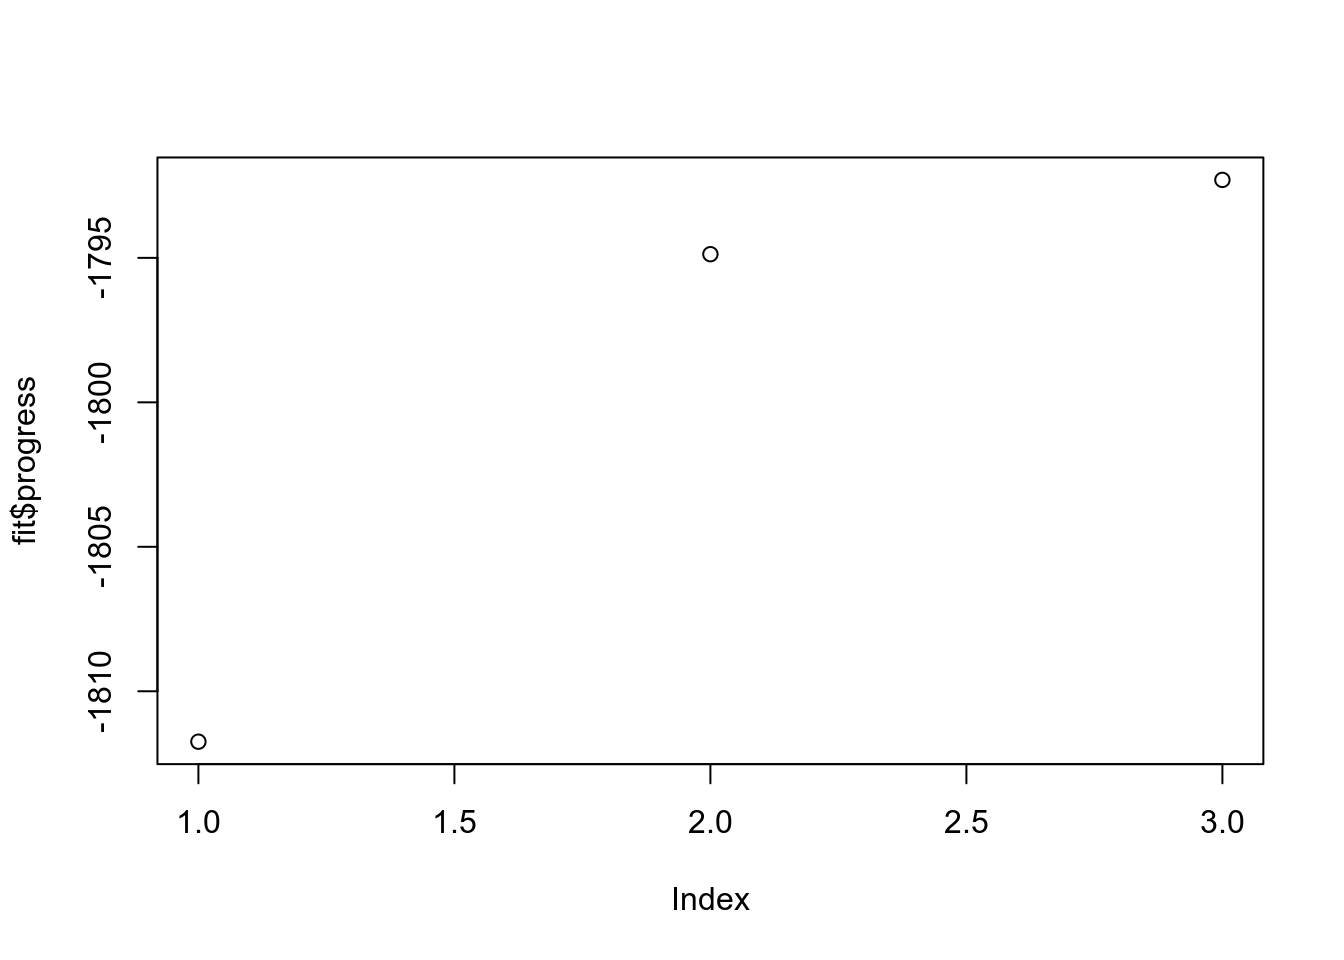
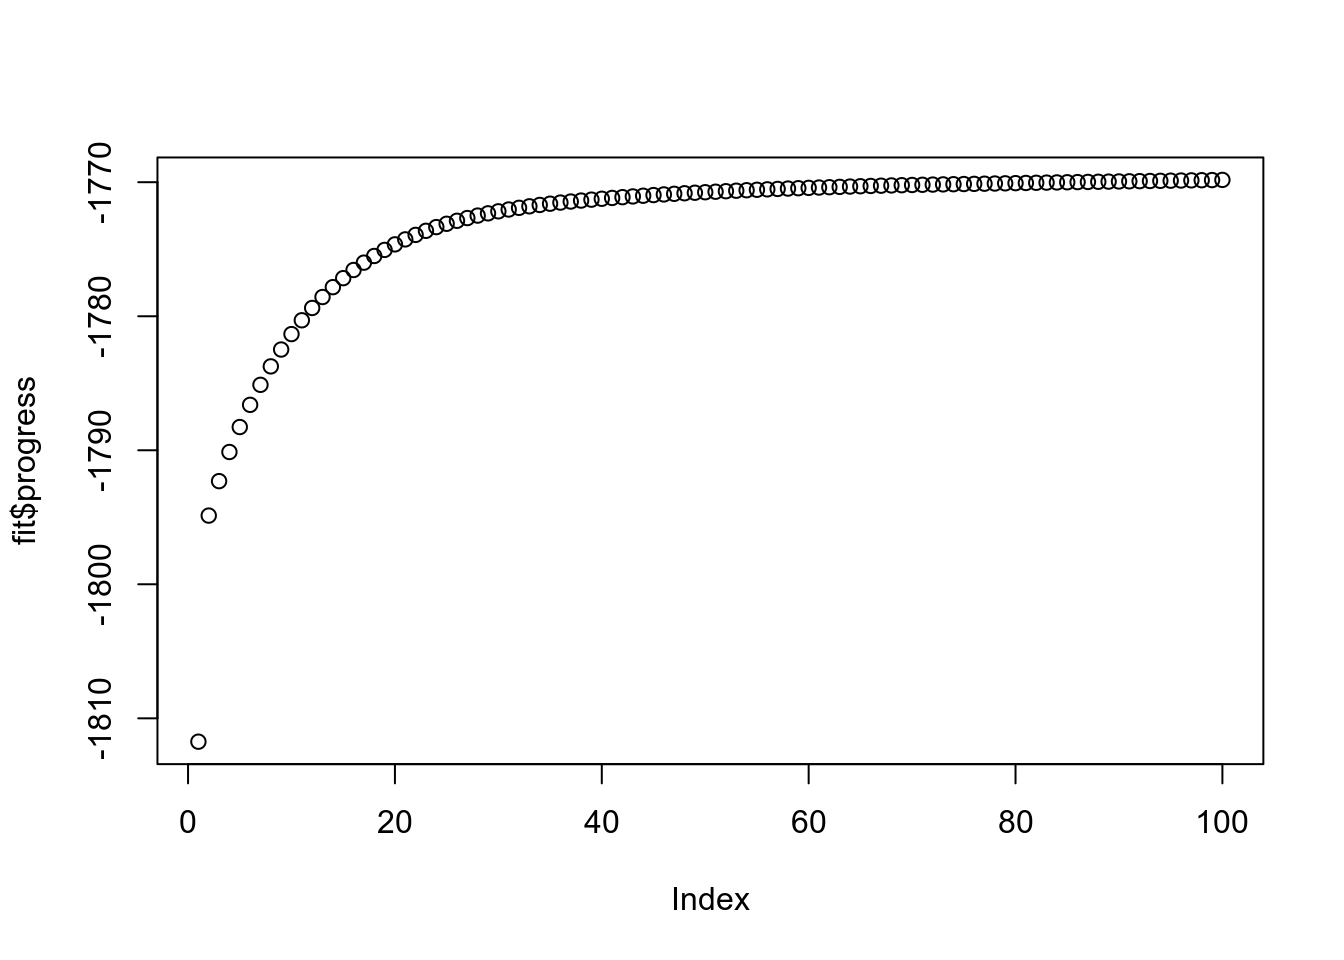
Build site.

diff --git a/docs/experiment_ebpm_bg_kos.html b/docs/experiment_ebpm_bg_kos.html
@@ -394,7 +394,7 @@ div.section {
 
 <p>
 <button type="button" class="btn btn-default btn-workflowr btn-workflowr-report" data-toggle="collapse" data-target="#workflowr-report">
-<span class="glyphicon glyphicon-list" aria-hidden="true"></span> workflowr <span class="glyphicon glyphicon-ok text-success" aria-hidden="true"></span>
+<span class="glyphicon glyphicon-list" aria-hidden="true"></span> workflowr <span class="glyphicon glyphicon-exclamation-sign text-danger" aria-hidden="true"></span>
 </button>
 </p>
 <div id="workflowr-report" class="collapse">
@@ -403,7 +403,7 @@ div.section {
 <a data-toggle="tab" href="#summary">Summary</a>
 </li>
 <li>
-<a data-toggle="tab" href="#checks"> Checks <span class="glyphicon glyphicon-ok text-success" aria-hidden="true"></span> </a>
+<a data-toggle="tab" href="#checks"> Checks <span class="glyphicon glyphicon-exclamation-sign text-danger" aria-hidden="true"></span> </a>
 </li>
 <li>
 <a data-toggle="tab" href="#versions">Past versions</a>
@@ -415,7 +415,7 @@ div.section {
 <strong>Last updated:</strong> 2020-04-30
 </p>
 <p>
-<strong>Checks:</strong> <span class="glyphicon glyphicon-ok text-success" aria-hidden="true"></span> 7 <span class="glyphicon glyphicon-exclamation-sign text-danger" aria-hidden="true"></span> 0
+<strong>Checks:</strong> <span class="glyphicon glyphicon-ok text-success" aria-hidden="true"></span> 6 <span class="glyphicon glyphicon-exclamation-sign text-danger" aria-hidden="true"></span> 1
 </p>
 <p>
 <strong>Knit directory:</strong> <code>ebpmf_demo/</code> <span class="glyphicon glyphicon-question-sign" aria-hidden="true" title="This is the local directory in which the code in this file was executed."> </span>
@@ -479,12 +479,18 @@ This reproducible <a href="http://rmarkdown.rstudio.com">R Markdown</a> analysis
 <div class="panel panel-default">
 <div class="panel-heading">
 <p class="panel-title">
-<a data-toggle="collapse" data-parent="#workflowr-checks" href="#strongCachestrongnone"> <span class="glyphicon glyphicon-ok text-success" aria-hidden="true"></span> <strong>Cache:</strong> none </a>
+<a data-toggle="collapse" data-parent="#workflowr-checks" href="#strongCachestrongdetected"> <span class="glyphicon glyphicon-exclamation-sign text-danger" aria-hidden="true"></span> <strong>Cache:</strong> detected </a>
 </p>
 </div>
-<div id="strongCachestrongnone" class="panel-collapse collapse">
+<div id="strongCachestrongdetected" class="panel-collapse collapse">
 <div class="panel-body">
-<p>Nice! There were no cached chunks for this analysis, so you can be confident that you successfully produced the results during this run.</p>
+The following chunks had caches available:
+<ul>
+<li>
+unnamed-chunk-3
+</li>
+</ul>
+<p>To ensure reproducibility of the results, delete the cache directory <code>experiment_ebpm_bg_kos_cache</code> and re-run the analysis. To have workflowr automatically delete the cache directory prior to building the file, set <code>delete_cache = TRUE</code> when running <code>wflow_build()</code> or <code>wflow_publish()</code>.</p>
 </div>
 </div>
 </div>
@@ -503,10 +509,10 @@ This reproducible <a href="http://rmarkdown.rstudio.com">R Markdown</a> analysis
 <div class="panel panel-default">
 <div class="panel-heading">
 <p class="panel-title">
-<a data-toggle="collapse" data-parent="#workflowr-checks" href="#strongRepositoryversionstrongahrefhttpsgithubcomzihao12ebpmfdemotree1460e22eb4d44f5a5957e62981c9a2566421488dtargetblank1460e22a"> <span class="glyphicon glyphicon-ok text-success" aria-hidden="true"></span> <strong>Repository version:</strong> <a href="https://github.com/zihao12/ebpmf_demo/tree/1460e22eb4d44f5a5957e62981c9a2566421488d" target="_blank">1460e22</a> </a>
+<a data-toggle="collapse" data-parent="#workflowr-checks" href="#strongRepositoryversionstrongahrefhttpsgithubcomzihao12ebpmfdemotreedf9d426db1ca6f6e6383d9f5c840befe9b7e4a0btargetblankdf9d426a"> <span class="glyphicon glyphicon-ok text-success" aria-hidden="true"></span> <strong>Repository version:</strong> <a href="https://github.com/zihao12/ebpmf_demo/tree/df9d426db1ca6f6e6383d9f5c840befe9b7e4a0b" target="_blank">df9d426</a> </a>
 </p>
 </div>
[2 lines of base64/hex data omitted]
 <div class="panel-body">
 <p>
 Great! You are using Git for version control. Tracking code development and connecting the code version to the results is critical for reproducibility. The version displayed above was the version of the Git repository at the time these results were generated. <br><br> Note that you need to be careful to ensure that all relevant files for the analysis have been committed to Git prior to generating the results (you can use <code>wflow_publish</code> or <code>wflow_git_commit</code>). workflowr only checks the R Markdown file, but you know if there are other scripts or data files that it depends on. Below is the status of the Git repository when the results were generated:
@@ -521,6 +527,7 @@ Untracked files:
     Untracked:  analysis/current_progress_ebpmf_comparison_cache/
     Untracked:  analysis/demo_sparse_ebpmf_two_gamma_cache/
     Untracked:  analysis/ebpm_two_gamma_speed.Rmd
+    Untracked:  analysis/experiment_ebpm_bg_kos_cache/
     Untracked:  analysis/experiment_ebpm_gammamix3_cache/
     Untracked:  analysis/experiment_nb_means_cache_0/
     Untracked:  analysis/fast_mle_nb.Rmd
@@ -591,6 +598,40 @@ Message
 </tr>
 </thead>
 <tbody>
+<tr>
+<td>
+Rmd
+</td>
+<td>
+<a href="https://github.com/zihao12/ebpmf_demo/blob/df9d426db1ca6f6e6383d9f5c840befe9b7e4a0b/analysis/experiment_ebpm_bg_kos.Rmd" target="_blank">df9d426</a>
+</td>
+<td>
+zihao12
+</td>
+<td>
+2020-04-30
+</td>
+<td>
+kos update
+</td>
+</tr>
+<tr>
+<td>
+html
+</td>
+<td>
+<a href="https://rawcdn.githack.com/zihao12/ebpmf_demo/8b7b17bae238f8a1755f6ad958d6a4bb1541e33c/docs/experiment_ebpm_bg_kos.html" target="_blank">8b7b17b</a>
+</td>
+<td>
+zihao12
+</td>
+<td>
+2020-04-30
+</td>
+<td>
+Build site.
+</td>
+</tr>
 <tr>
 <td>
 Rmd
@@ -688,7 +729,44 @@ I construct a poisson means sub-problem this way
 Y = readRDS(&quot;data/kos.z.Rds&quot;)
 hist(log10(Y + 1), breaks = 100)</code></pre>
 <p><img src="figure/experiment_ebpm_bg_kos.Rmd/unnamed-chunk-2-1.png" width="672" style="display: block; margin: auto;" /></p>
-<pre class="r"><code>maxiter = 3
+<p>
+<button type="button" class="btn btn-default btn-xs btn-workflowr btn-workflowr-fig" data-toggle="collapse" data-target="#fig-unnamed-chunk-2-1">
+Past versions of unnamed-chunk-2-1.png
+</button>
+</p>
+<div id="fig-unnamed-chunk-2-1" class="collapse">
+<div class="table-responsive">
+<table class="table table-condensed table-hover">
+<thead>
+<tr>
+<th>
+Version
+</th>
+<th>
+Author
+</th>
+<th>
+Date
+</th>
+</tr>
+</thead>
+<tbody>
+<tr>
+<td>
+<a href="https://github.com/zihao12/ebpmf_demo/blob/8b7b17bae238f8a1755f6ad958d6a4bb1541e33c/docs/figure/experiment_ebpm_bg_kos.Rmd/unnamed-chunk-2-1.png" target="_blank">8b7b17b</a>
+</td>
+<td>
+zihao12
+</td>
+<td>
+2020-04-30
+</td>
+</tr>
+</tbody>
+</table>
+</div>
+</div>
+<pre class="r"><code>maxiter = 100
 a_L = c(seq(0.01, 0.10, 0.01), seq(0.2, 0.9, 0.1), seq(1,15,2), 20, 50, 75, 100, 200, 1e3)
 grids= list(al = a_L, bl = a_L)
 
@@ -699,6 +777,43 @@ runtime &lt;- system.time(
 )</code></pre>
 <pre class="r"><code>plot(fit$progress)</code></pre>
 <p><img src="figure/experiment_ebpm_bg_kos.Rmd/unnamed-chunk-4-1.png" width="672" style="display: block; margin: auto;" /></p>
+<p>
+<button type="button" class="btn btn-default btn-xs btn-workflowr btn-workflowr-fig" data-toggle="collapse" data-target="#fig-unnamed-chunk-4-1">
+Past versions of unnamed-chunk-4-1.png
+</button>
+</p>
+<div id="fig-unnamed-chunk-4-1" class="collapse">
+<div class="table-responsive">
+<table class="table table-condensed table-hover">
+<thead>
+<tr>
+<th>
+Version
+</th>
+<th>
+Author
+</th>
+<th>
+Date
+</th>
+</tr>
+</thead>
+<tbody>
+<tr>
+<td>
+<a href="https://github.com/zihao12/ebpmf_demo/blob/8b7b17bae238f8a1755f6ad958d6a4bb1541e33c/docs/figure/experiment_ebpm_bg_kos.Rmd/unnamed-chunk-4-1.png" target="_blank">8b7b17b</a>
+</td>
+<td>
+zihao12
+</td>
+<td>
+2020-04-30
+</td>
+</tr>
+</tbody>
+</table>
+</div>
+</div>
 <br>
 <p>
 <button type="button" class="btn btn-default btn-workflowr btn-workflowr-sessioninfo" data-toggle="collapse" data-target="#workflowr-sessioninfo" style="display: block;">
